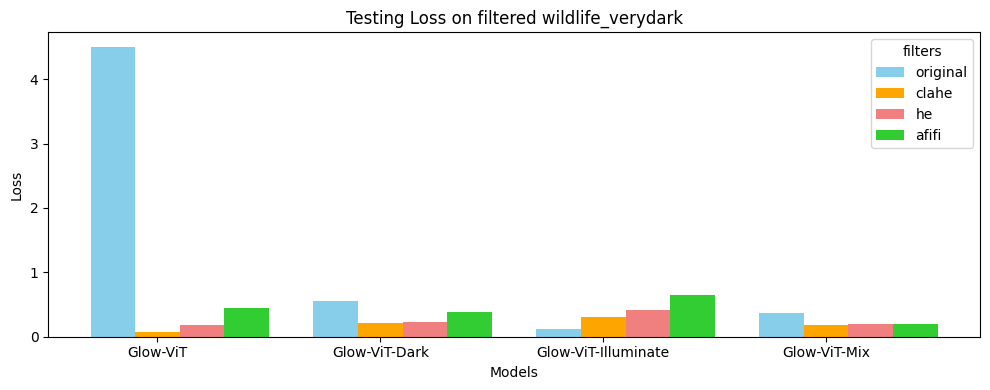
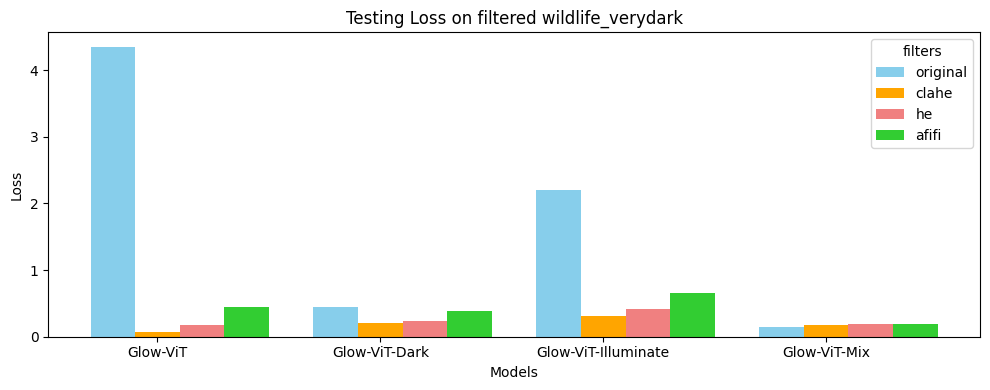
corrected values for histogram

diff --git a/README.md b/README.md
@@ -18,12 +18,12 @@ The dataset used can also be found at the following Huggingface repos:
 
 > Overview
 
-|eval_loss| original | very dark | illuminate | mixed | very dark test | grayscale | less saturated | underexposed |
-|--|---------|------------|------------|-------|----------------|-----------|----------------|----|
-|Glow-ViT|0.1246      |4.5018|0.0225|0.5657|4.3495|0.2021|0.176|0.351|
-|Glow-ViT-Dark|0.2078 |0.5554|0.1712|0.2502|0.4528|0.2992 |0.3231      |0.2702|
-|Glow-ViT-Illuminate  |0.1177|2.1939|0.1064|0.4042|2.2027|0.3929     |0.4334          |0.5756|
-|Glow-ViT-Mix|0.0744  |0.3715|0.0243|0.1449|0.1396       | 0.0776   | 0.0707 |0.0472|
+|eval_loss            | original | very dark | illuminate | mixed | very dark test | grayscale | less saturated | underexposed |
+|---------------------|----------|-----------|------------|-------|----------------|-----------|----------------|----|
+|Glow-ViT             |0.1246    |4.5018     |0.0225      |0.5657 |4.3495          |0.2021     |0.176           |0.351|
+|Glow-ViT-Dark        |0.2078    |0.5554     |0.1712      |0.2502 |0.4528          |0.2992     |0.3231          |0.2702|
+|Glow-ViT-Illuminate  |0.1177    |2.1939     |0.1064      |0.4042 |2.2027          |0.3929     |0.4334          |0.5756|
+|Glow-ViT-Mix         |0.0744    |0.3715     |0.0243      |0.1449 |0.1396          | 0.0776    | 0.0707         |0.0472|
 
 
 
@@ -48,49 +48,49 @@ The tables are sorted by datasets:
 
 | Model             | Dataset                              | Eval Loss | Eval Samples Per Second |
 |--------------------|--------------------------------------|-----------|--------------------------|
-| Glow-ViT          | wildlife_verydark_clahe             | 0.075     | 18.797                   |
-| Glow-ViT          | wildlife_verydark_he                | 0.1791    | 18.119                   |
-| Glow-ViT          | wildlife_verydark_afifi             | 0.4517    | 19.199                   |
-| Glow-ViT-dark     | wildlife_verydark_clahe             | 0.2089    | 18.775                   |
-| Glow-ViT-dark     | wildlife_verydark_he                | 0.2324    | 18.86                    |
-| Glow-ViT-dark     | wildlife_verydark_afifi             | 0.3838    | 18.761                   |
-| Glow-ViT-illuminate | wildlife_verydark_clahe           | 0.3039    | 19.033                   |
-| Glow-ViT-illuminate | wildlife_verydark_he              | 0.419     | 20.752                   |
-| Glow-ViT-illuminate | wildlife_verydark_afifi           | 0.6543    | 20.576                   |
-| Glow-ViT-mix      | wildlife_verydark_clahe             | 0.1768    | 17.821                   |
-| Glow-ViT-mix      | wildlife_verydark_he                | 0.1925    | 18.962                   |
-| Glow-ViT-mix      | wildlife_verydark_afifi             | 0.1952    | 18.662                   |
+| Glow-ViT          | CLAHE                                 | 0.075     | 18.797                   |
+| Glow-ViT          | HE                                    | 0.1791    | 18.119                   |
+| Glow-ViT          | AFIFI                                 | 0.4517    | 19.199                   |
+| Glow-ViT-dark     | CLAHE                                 | 0.2089    | 18.775                   |
+| Glow-ViT-dark     | HE                                    | 0.2324    | 18.86                    |
+| Glow-ViT-dark     | AFIFI                                 | 0.3838    | 18.761                   |
+| Glow-ViT-illuminate | CLAHE                               | 0.3039    | 19.033                   |
+| Glow-ViT-illuminate | HE                                  | 0.419     | 20.752                   |
+| Glow-ViT-illuminate | AFIFI                               | 0.6543    | 20.576                   |
+| Glow-ViT-mix      | CLAHE                                 | 0.1768    | 17.821                   |
+| Glow-ViT-mix      | HE                                    | 0.1925    | 18.962                   |
+| Glow-ViT-mix      | AFIFI                                 | 0.1952    | 18.662                   |
 
 #### less saturated
 
 | Model              | Dataset                              | Eval Loss | Eval Samples Per Second |
 |--------------------|--------------------------------------|-----------|--------------------------|
-| Glow-ViT          | wildlife_less_saturated_clahe        | 0.4322    | 19.202                   |
-| Glow-ViT          | wildlife_less_saturated_he           | 0.1722    | 20.912                   |
-| Glow-ViT          | wildlife_less_saturated_afifi        | 0.1746    | 21.745                   |
-| Glow-ViT-dark     | wildlife_less_saturated_clahe        | 0.5156    | 20.770                   |
-| Glow-ViT-dark     | wildlife_less_saturated_he           | 0.2069    | 22.236                   |
-| Glow-ViT-dark     | wildlife_less_saturated_afifi        | 0.3232    | 21.194                   |
-| Glow-ViT-illuminate | wildlife_less_saturated_clahe      | 0.6073    | 20.399                   |
-| Glow-ViT-illuminate | wildlife_less_saturated_he         | 0.3827    | 20.900                   |
-| Glow-ViT-illuminate | wildlife_less_saturated_afifi      | 0.3601    | 21.946                   |
-| Glow-ViT-mix      | wildlife_less_saturated_clahe        | 0.2070    | 18.978                   |
-| Glow-ViT-mix      | wildlife_less_saturated_he           | 0.1004    | 21.674                   |
-| Glow-ViT-mix      | wildlife_less_saturated_afifi        | 0.0977    | 21.653                   |
+| Glow-ViT          | CLAHE                                 | 0.4322    | 19.202                   |
+| Glow-ViT          | HE                                    | 0.1722    | 20.912                   |
+| Glow-ViT          | AFIFI                                 | 0.1746    | 21.745                   |
+| Glow-ViT-dark     | CLAHE                                 | 0.5156    | 20.770                   |
+| Glow-ViT-dark     | HE                                    | 0.2069    | 22.236                   |
+| Glow-ViT-dark     | AFIFI                                 | 0.3232    | 21.194                   |
+| Glow-ViT-illuminate | CLAHE                               | 0.6073    | 20.399                   |
+| Glow-ViT-illuminate | HE                                  | 0.3827    | 20.900                   |
+| Glow-ViT-illuminate | AFIFI                               | 0.3601    | 21.946                   |
+| Glow-ViT-mix      | CLAHE                                 | 0.2070    | 18.978                   |
+| Glow-ViT-mix      | HE                                    | 0.1004    | 21.674                   |
+| Glow-ViT-mix      | AFIFI                                 | 0.0977    | 21.653                   |
 
 #### underexposed
 
 | Model             | Dataset                              | Eval Loss | Eval Samples Per Second |
 |--------------------|--------------------------------------|-----------|--------------------------|
-| Glow-ViT          | wildlife_underexposed_clahe          | 0.0688    | 18.855                   |
-| Glow-ViT          | wildlife_underexposed_he             | 0.1119    | 20.013                   |
-| Glow-ViT          | wildlife_underexposed_afifi          | 0.0692    | 19.543                   |
-| Glow-ViT-Dark     | wildlife_underexposed_clahe          | 0.2596    | 17.982                   |
-| Glow-ViT-Dark     | wildlife_underexposed_he             | 0.2636    | 19.576                   |
-| Glow-ViT-Dark     | wildlife_underexposed_afifi          | 0.2450    | 20.645                   |
-| Glow-ViT-Illuminate | wildlife_underexposed_clahe        | 0.2424    | 18.255                   |
-| Glow-ViT-Illuminate | wildlife_underexposed_he           | 0.2550    | 20.814                   |
-| Glow-ViT-Illuminate | wildlife_underexposed_afifi        | 0.2446    | 20.759                   |
-| Glow-ViT-Mix      | wildlife_underexposed_clahe          | 0.0577    | 19.283                   |
-| Glow-ViT-Mix      | wildlife_underexposed_he             | 0.0917    | 20.847                   |
-| Glow-ViT-Mix      | wildlife_underexposed_afifi          | 0.0610    | 20.104                   |
+| Glow-ViT          | CLAHE                                 | 0.0688    | 18.855                   |
+| Glow-ViT          | HE                                    | 0.1119    | 20.013                   |
+| Glow-ViT          | AFIFI                                 | 0.0692    | 19.543                   |
+| Glow-ViT-Dark     | CLAHE                                 | 0.2596    | 17.982                   |
+| Glow-ViT-Dark     | HE                                    | 0.2636    | 19.576                   |
+| Glow-ViT-Dark     | AFIFI                                 | 0.2450    | 20.645                   |
+| Glow-ViT-Illuminate | CLAHE                               | 0.2424    | 18.255                   |
+| Glow-ViT-Illuminate | HE                                  | 0.2550    | 20.814                   |
+| Glow-ViT-Illuminate | AFIFI                               | 0.2446    | 20.759                   |
+| Glow-ViT-Mix      | CLAHE                                 | 0.0577    | 19.283                   |
+| Glow-ViT-Mix      | HE                                    | 0.0917    | 20.847                   |
+| Glow-ViT-Mix      | AFIFI                                 | 0.0610    | 20.104                   |
